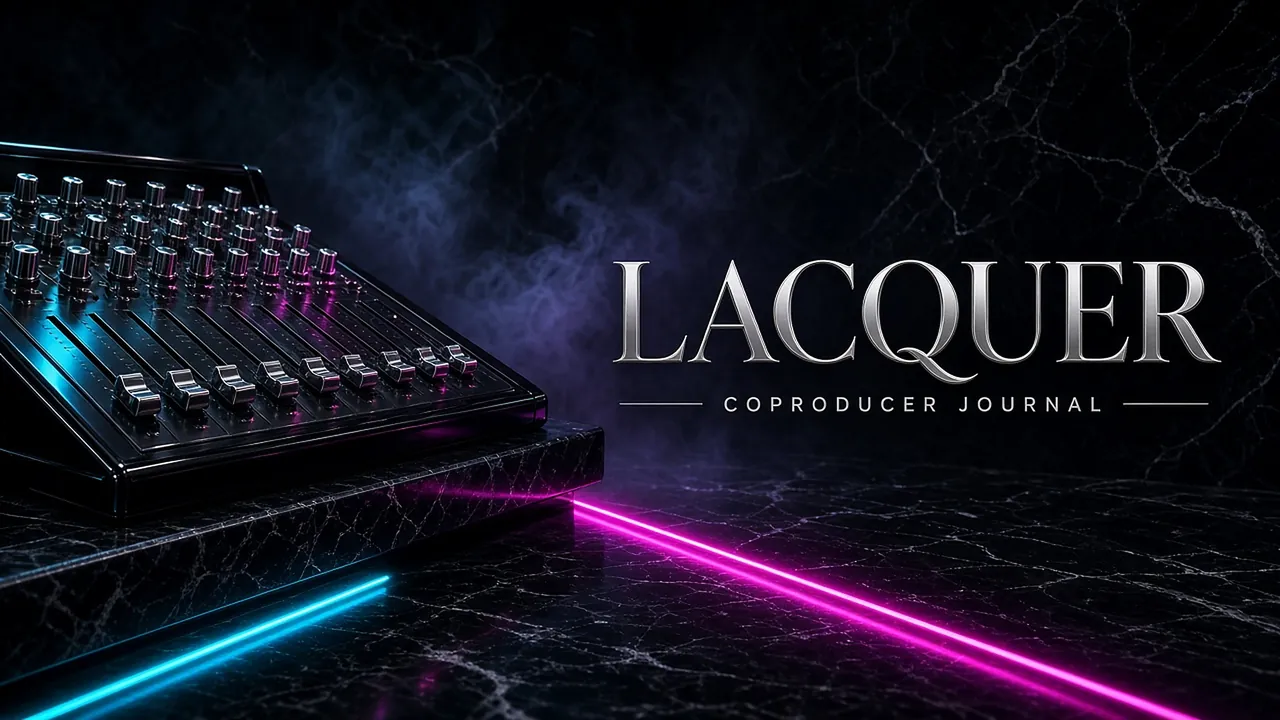
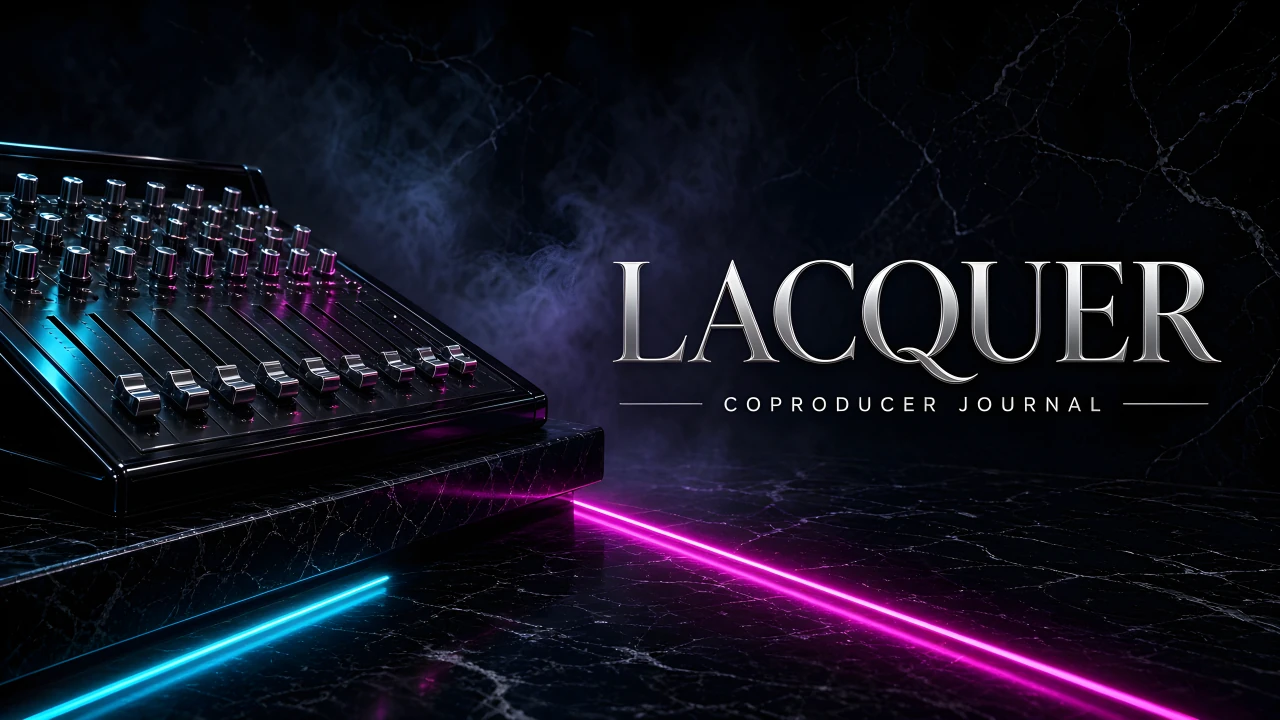
Journal hero: replace upscaled-blur Lacquer hero with Real-ESRGAN 2560/1920/1280 (WebP q90, JPG q90), add 1920w to srcset/preload, cache-bust

diff --git a/blog/index.html b/blog/index.html
@@ -24,7 +24,7 @@
 <link href="https://fonts.googleapis.com/css2?family=Cormorant+Garamond:ital,wght@0,500;0,600;1,500;1,600&amp;family=Figtree:wght@400;500;600&amp;family=JetBrains+Mono:wght@400;500;700&amp;display=swap" rel="stylesheet" media="print" onload="this.media='all'"/><noscript><link href="https://fonts.googleapis.com/css2?family=Cormorant+Garamond:ital,wght@0,500;0,600;1,500;1,600&amp;family=Figtree:wght@400;500;600&amp;family=JetBrains+Mono:wght@400;500;700&amp;display=swap" rel="stylesheet"/></noscript>
 <link href="css/journal.css" rel="stylesheet"/>
 <link href="css/lacquer-brand.css?v=lq1" rel="stylesheet"/>
-<link as="image" fetchpriority="high" href="img/brand/lacquer-hero.webp" imagesizes="100vw" imagesrcset="img/brand/lacquer-hero-1280.webp 1280w, img/brand/lacquer-hero.webp 2560w" rel="preload" type="image/webp"/>
+<link as="image" fetchpriority="high" href="img/brand/lacquer-hero-1920.webp?v=lq2" imagesizes="100vw" imagesrcset="img/brand/lacquer-hero-1280.webp?v=lq2 1280w, img/brand/lacquer-hero-1920.webp?v=lq2 1920w, img/brand/lacquer-hero.webp?v=lq2 2560w" rel="preload" type="image/webp"/>
 
 <script type="application/ld+json">{"@context":"https://schema.org","@type":"BreadcrumbList","itemListElement":[{"@type":"ListItem","position":1,"name":"CoProducer","item":"https://myaiplug.github.io/coproducer-web/"},{"@type":"ListItem","position":2,"name":"Lacquer Journal","item":"https://myaiplug.github.io/coproducer-web/blog/index.html"}]}</script><script type="application/ld+json">{"@context":"https://schema.org","@type":"CollectionPage","name":"Lacquer — CoProducer Journal","url":"https://myaiplug.github.io/coproducer-web/blog/index.html","isPartOf":{"@id":"https://myaiplug.github.io/coproducer-web/#website"},"about":"Audio engineering essays on loudness, true peak, repair, stems, and local tools.","publisher":{"@id":"https://myaiplug.github.io/coproducer-web/#organization"},"mainEntity":{"@type":"ItemList","itemListElement":[{"@type":"ListItem","position":1,"url":"https://myaiplug.github.io/coproducer-web/blog/hum-in-your-recording-notch-60-hz-and-its-harmonics.html","name":"Hum in your recording? Notch 60 Hz and its harmonics, not just the low end"},{"@type":"ListItem","position":2,"url":"https://myaiplug.github.io/coproducer-web/blog/noise-gate-cuts-off-vocal-tails-set-the-hold.html","name":"Noise gate cutting off the ends of words? Set the hold and a lower close"},{"@type":"ListItem","position":3,"url":"https://myaiplug.github.io/coproducer-web/blog/saturator-sounds-harsh-turn-on-oversampling.html","name":"Saturator making the highs harsh? Turn on oversampling"},{"@type":"ListItem","position":4,"url":"https://myaiplug.github.io/coproducer-web/blog/linear-phase-eq-smears-the-kick-watch-the-pre-ring.html","name":"Linear-phase EQ softening your kick? Listen before the hit"},{"@type":"ListItem","position":5,"url":"https://myaiplug.github.io/coproducer-web/blog/limiter-distorts-the-bass-slow-the-release.html","name":"Limiter distorting the bass? Slow the release"},{"@type":"ListItem","position":6,"url":"https://myaiplug.github.io/coproducer-web/blog/mix-leans-to-one-side-check-the-balance-band-by-band.html","name":"Mix leans to one side? Check the balance band by band"},{"@type":"ListItem","position":7,"url":"https://myaiplug.github.io/coproducer-web/blog/copy-paste-vocal-double-sounds-mono-sing-a-real-take.html","name":"Copy-pasted vocal double sounds mono? Sing a real second take"},{"@type":"ListItem","position":8,"url":"https://myaiplug.github.io/coproducer-web/blog/vocal-buried-in-the-beat-cut-the-beat-at-3-khz.html","name":"Vocal buried in the beat? Cut the beat where the voice lives"},{"@type":"ListItem","position":9,"url":"https://myaiplug.github.io/coproducer-web/blog/sidechain-pumping-out-of-time-set-release-to-tempo.html","name":"Sidechain pumping out of time? Set the release from the tempo"},{"@type":"ListItem","position":10,"url":"https://myaiplug.github.io/coproducer-web/blog/fade-out-sounds-abrupt-curve-it-and-fade-after-the-limiter.html","name":"Fade-out drops off a cliff? Curve it, and fade after the limiter"},{"@type":"ListItem","position":11,"url":"https://myaiplug.github.io/coproducer-web/blog/plugin-input-level-gain-staging-minus-18-dbfs.html","name":"Why −18 dBFS? Gain staging into analog-style plugins"},{"@type":"ListItem","position":12,"url":"https://myaiplug.github.io/coproducer-web/blog/layered-kick-sounds-thinner-check-polarity-and-timing.html","name":"Layered kick sounds thinner? Check polarity and timing"},{"@type":"ListItem","position":13,"url":"https://myaiplug.github.io/coproducer-web/blog/normalize-on-export-turn-it-off-for-mastering.html","name":"Should you normalize on export? Turn it off before mastering"},{"@type":"ListItem","position":14,"url":"https://myaiplug.github.io/coproducer-web/blog/sample-plays-at-wrong-pitch-sample-rate-mismatch.html","name":"Sample playing at the wrong speed or pitch? It’s a sample-rate mismatch"},{"@type":"ListItem","position":15,"url":"https://myaiplug.github.io/coproducer-web/blog/song-ending-cut-off-on-export-let-the-tail-ring.html","name":"Song ending cut off when you export? Let the tail ring past the last bar"},{"@type":"ListItem","position":16,"url":"https://myaiplug.github.io/coproducer-web/blog/compressor-kills-the-punch-slow-the-attack.html","name":"Compressor killing your drums’ punch? Slow the attack down"},{"@type":"ListItem","position":17,"url":"https://myaiplug.github.io/coproducer-web/blog/tune-808-to-the-key-of-your-song.html","name":"808 sounds off-key? Find its real note, then tune it to the song"},{"@type":"ListItem","position":18,"url":"https://myaiplug.github.io/coproducer-web/blog/clean-version-of-a-song-mute-reverse-or-replace.html","name":"Making a clean version? Edit the vocals, keep the length, then check it against the explicit"},{"@type":"ListItem","position":19,"url":"https://myaiplug.github.io/coproducer-web/blog/pan-law-why-panned-parts-change-level.html","name":"Panned parts get quieter in mono? That’s your pan law, not your ears"},{"@type":"ListItem","position":20,"url":"https://myaiplug.github.io/coproducer-web/blog/vocal-breaths-turn-them-down-dont-cut-them.html","name":"Loud breaths in your vocal? Turn them down before the compressor, don’t cut them"},{"@type":"ListItem","position":21,"url":"https://myaiplug.github.io/coproducer-web/blog/delay-time-from-bpm-sync-your-throws.html","name":"Your delay sounds off the beat? Set it from the tempo, not by ear"},{"@type":"ListItem","position":22,"url":"https://myaiplug.github.io/coproducer-web/blog/clicks-at-edit-points-fade-every-cut.html","name":"Clicks at your edit points come from cutting mid-wave. Fade every cut"},{"@type":"ListItem","position":23,"url":"https://myaiplug.github.io/coproducer-web/blog/export-stems-for-a-mix-engineer.html","name":"Sending stems to a mixer? Export them so they line up and add back up"},{"@type":"ListItem","position":24,"url":"https://myaiplug.github.io/coproducer-web/blog/mix-sounds-better-louder-pick-one-monitor-level.html","name":"Your mix sounds better loud and thinner quiet. Pick one monitoring level"},{"@type":"ListItem","position":25,"url":"https://myaiplug.github.io/coproducer-web/blog/reverb-makes-the-mix-muddy-filter-the-return.html","name":"Reverb making the mix muddy? Filter the return, not the vocal"},{"@type":"ListItem","position":26,"url":"https://myaiplug.github.io/coproducer-web/blog/low-end-changes-when-you-move-your-chair.html","name":"Your low end changes when you move your chair. That’s the room, not the mix"},{"@type":"ListItem","position":27,"url":"https://myaiplug.github.io/coproducer-web/blog/parallel-compression-sounds-thin-check-latency.html","name":"Parallel compression sounds thin? Check the latency first"},{"@type":"ListItem","position":28,"url":"https://myaiplug.github.io/coproducer-web/blog/gapless-album-gaps-after-mp3-or-aac.html","name":"Why your gapless album gets gaps after MP3 or AAC"},{"@type":"ListItem","position":29,"url":"https://myaiplug.github.io/coproducer-web/blog/808-disappears-on-phone-speakers.html","name":"Why your 808 disappears on phone speakers"},{"@type":"ListItem","position":30,"url":"https://myaiplug.github.io/coproducer-web/blog/how-much-headroom-to-leave-for-mastering.html","name":"How much headroom to leave for mastering (and why −6 dB isn’t the point)"},{"@type":"ListItem","position":31,"url":"https://myaiplug.github.io/coproducer-web/blog/integrated-lufs-hides-the-chorus.html","name":"Integrated LUFS hides how loud the chorus actually is"},{"@type":"ListItem","position":32,"url":"https://myaiplug.github.io/coproducer-web/blog/dont-match-a-streamed-reference.html","name":"Don’t match a streamed reference"},{"@type":"ListItem","position":33,"url":"https://myaiplug.github.io/coproducer-web/blog/short-term-lufs-is-not-your-target.html","name":"Short-term LUFS is not your target"},{"@type":"ListItem","position":34,"url":"https://myaiplug.github.io/coproducer-web/blog/turn-the-mix-down-before-you-limit.html","name":"Turn the mix down before you limit"},{"@type":"ListItem","position":35,"url":"https://myaiplug.github.io/coproducer-web/blog/what-432-hz-actually-changes-in-a-master.html","name":"What 432 Hz actually changes in a finished master"},{"@type":"ListItem","position":36,"url":"https://myaiplug.github.io/coproducer-web/blog/resampling-vs-pitch-shift-vs-tempo.html","name":"Resampling, pitch shifting, and tempo change are three different jobs"},{"@type":"ListItem","position":37,"url":"https://myaiplug.github.io/coproducer-web/blog/concert-pitch-history-before-a440.html","name":"Concert pitch before A=440: a history that never stood still"},{"@type":"ListItem","position":38,"url":"https://myaiplug.github.io/coproducer-web/blog/432-hz-conspiracy-theories-fact-check.html","name":"The 432 Hz conspiracy theories, checked against the record"},{"@type":"ListItem","position":39,"url":"https://myaiplug.github.io/coproducer-web/blog/432-vs-440-blind-listening-test.html","name":"How to run a 432 vs 440 listening test you can trust"},{"@type":"ListItem","position":40,"url":"https://myaiplug.github.io/coproducer-web/blog/songs-that-reveal-a-432-hz-retune.html","name":"Which songs reveal a 432 Hz retune, and which hide it"},{"@type":"ListItem","position":41,"url":"https://myaiplug.github.io/coproducer-web/blog/lufs-and-true-peak-after-432-retune.html","name":"432 Hz mastering: LUFS and true peak after a retune"},{"@type":"ListItem","position":42,"url":"https://myaiplug.github.io/coproducer-web/blog/how-to-make-a-432-hz-alternate-master.html","name":"A 432 alternate master should never cost you the original"},{"@type":"ListItem","position":43,"url":"https://myaiplug.github.io/coproducer-web/blog/batch-retune-a-folder-to-432-hz-safely.html","name":"Batch retune a folder to 432 Hz without damaging a master"},{"@type":"ListItem","position":44,"url":"https://myaiplug.github.io/coproducer-web/blog/432-vs-435-vs-442-hz-reference-pitch-guide.html","name":"432, 435, 442 and the reference pitch you actually started from"},{"@type":"ListItem","position":45,"url":"https://myaiplug.github.io/coproducer-web/blog/local-audio-processing-for-unreleased-masters.html","name":"Keeping an unreleased master on your own machine, honestly"},{"@type":"ListItem","position":46,"url":"https://myaiplug.github.io/coproducer-web/blog/432-hz-release-checklist.html","name":"Before a 432 version ships: the release checklist"},{"@type":"ListItem","position":47,"url":"https://myaiplug.github.io/coproducer-web/blog/split-stems-from-youtube-audio-you-own.html","name":"Splitting stems from YouTube audio you own starts with the cleanest copy"},{"@type":"ListItem","position":48,"url":"https://myaiplug.github.io/coproducer-web/blog/demucs-vs-mdx-net-stem-separation-compared.html","name":"Demucs vs MDX-Net: what each separator gets wrong, and why"},{"@type":"ListItem","position":49,"url":"https://myaiplug.github.io/coproducer-web/blog/cloud-stem-splitter-privacy-unreleased-music.html","name":"Before a cloud stem splitter gets your unreleased song, read four clauses"},{"@type":"ListItem","position":50,"url":"https://myaiplug.github.io/coproducer-web/blog/sampling-from-separated-stems-workflow.html","name":"Sampling from separated stems: chop around the bleed, not through it"},{"@type":"ListItem","position":51,"url":"https://myaiplug.github.io/coproducer-web/blog/subsonic-rumble-steals-limiter-headroom.html","name":"Rumble you can’t hear is eating your limiter"},{"@type":"ListItem","position":52,"url":"https://myaiplug.github.io/coproducer-web/blog/bus-compressor-pumps-on-the-808.html","name":"Your bus compressor is pumping on the 808. High-pass the sidechain"},{"@type":"ListItem","position":53,"url":"https://myaiplug.github.io/coproducer-web/blog/halftime-still-needs-a-legal-peak.html","name":"Halftime still needs a legal peak"},{"@type":"ListItem","position":54,"url":"https://myaiplug.github.io/coproducer-web/blog/when-to-slow-the-bounce.html","name":"When to slow the bounce"},{"@type":"ListItem","position":55,"url":"https://myaiplug.github.io/coproducer-web/blog/wide-mixes-fail-in-mono.html","name":"Wide mixes fail in mono. Check mid/side before you bounce"},{"@type":"ListItem","position":56,"url":"https://myaiplug.github.io/coproducer-web/blog/clipper-vs-limiter-hip-hop-delivery.html","name":"Clipper vs limiter for hip-hop delivery — loudness isn’t the only score"},{"@type":"ListItem","position":57,"url":"https://myaiplug.github.io/coproducer-web/blog/leading-silence-steals-integrated-lufs.html","name":"The silence at the top of your bounce steals LUFS"},{"@type":"ListItem","position":58,"url":"https://myaiplug.github.io/coproducer-web/blog/kick-and-808-same-chair.html","name":"Your kick and 808 are arguing in the same chair"},{"@type":"ListItem","position":59,"url":"https://myaiplug.github.io/coproducer-web/blog/how-loud-should-the-vocal-sit.html","name":"How loud should the vocal sit? Measure it against the beat"},{"@type":"ListItem","position":60,"url":"https://myaiplug.github.io/coproducer-web/blog/harsh-esses-get-louder-after-mastering.html","name":"Harsh S’s get louder after mastering. De-ess before the limiter"},{"@type":"ListItem","position":61,"url":"https://myaiplug.github.io/coproducer-web/blog/why-streaming-turns-loud-masters-down.html","name":"Why streaming platforms turn loud masters down"},{"@type":"ListItem","position":62,"url":"https://myaiplug.github.io/coproducer-web/blog/true-peak-is-what-codecs-clip.html","name":"True peak is what codecs clip"},{"@type":"ListItem","position":63,"url":"https://myaiplug.github.io/coproducer-web/blog/what-a-70-to-90-repair-changes.html","name":"What a 70-to-90 repair actually changes"},{"@type":"ListItem","position":64,"url":"https://myaiplug.github.io/coproducer-web/blog/should-you-upload-an-unreleased-master.html","name":"Should you upload an unreleased master?"},{"@type":"ListItem","position":65,"url":"https://myaiplug.github.io/coproducer-web/blog/release-checklist-that-matches-the-meter.html","name":"A release checklist that matches the meter"},{"@type":"ListItem","position":66,"url":"https://myaiplug.github.io/coproducer-web/blog/crest-factor-is-not-loudness.html","name":"Crest factor is not loudness"},{"@type":"ListItem","position":67,"url":"https://myaiplug.github.io/coproducer-web/blog/phase-correlation-and-mono.html","name":"Phase correlation is a mono audition"},{"@type":"ListItem","position":68,"url":"https://myaiplug.github.io/coproducer-web/blog/quiet-masters-and-noise-floor.html","name":"Quiet masters get turned up — and so does the noise"},{"@type":"ListItem","position":69,"url":"https://myaiplug.github.io/coproducer-web/blog/when-not-to-reach-for-the-limiter.html","name":"When not to reach for the limiter"},{"@type":"ListItem","position":70,"url":"https://myaiplug.github.io/coproducer-web/blog/sample-rate-and-bit-depth-for-delivery.html","name":"Sample rate and bit depth are delivery hygiene"},{"@type":"ListItem","position":71,"url":"https://myaiplug.github.io/coproducer-web/blog/reference-matching-without-guesswork.html","name":"How to use a reference track when mixing: match the loudness first, then compare"},{"@type":"ListItem","position":72,"url":"https://myaiplug.github.io/coproducer-web/blog/album-consistency-in-one-meter.html","name":"How loud should each song on an album be? Measure the record as a set"},{"@type":"ListItem","position":73,"url":"https://myaiplug.github.io/coproducer-web/blog/why-three-report-formats.html","name":"What should a loudness report include? HTML, JSON, TXT"},{"@type":"ListItem","position":74,"url":"https://myaiplug.github.io/coproducer-web/blog/local-tools-beat-upload-queues.html","name":"How to check LUFS without uploading your song"},{"@type":"ListItem","position":75,"url":"https://myaiplug.github.io/coproducer-web/blog/stems-diagnose-mixes-do-not-replace-them.html","name":"Can stem separation fix a bad mix? Stems diagnose mixes, they don’t replace them"},{"@type":"ListItem","position":76,"url":"https://myaiplug.github.io/coproducer-web/blog/screw-tempo-still-needs-a-legal-peak.html","name":"Does a slowed or screwed version need its own master? Measure the peak again"},{"@type":"ListItem","position":77,"url":"https://myaiplug.github.io/coproducer-web/blog/vertical-video-is-a-loudness-trap.html","name":"What LUFS for Reels, TikTok and Shorts?"},{"@type":"ListItem","position":78,"url":"https://myaiplug.github.io/coproducer-web/blog/mastering-bat-vs-opening-the-session.html","name":"Can mastering fix a bad mix? When a mastering pass is enough and when to reopen the session"},{"@type":"ListItem","position":79,"url":"https://myaiplug.github.io/coproducer-web/blog/how-to-read-a-coproducer-score.html","name":"What does a mix score mean? How to read a CoProducer score"},{"@type":"ListItem","position":80,"url":"https://myaiplug.github.io/coproducer-web/blog/reencoding-eats-true-peak-headroom.html","name":"Why does my master clip after MP3 or AAC?"}]},"@id":"https://myaiplug.github.io/coproducer-web/blog/index.html#collection"}</script><script type="application/ld+json">{"@context":"https://schema.org","@graph":[{"@type":"Organization","@id":"https://myaiplug.github.io/coproducer-web/#organization","name":"NoDAW Labs","alternateName":"NoDAW™ Labs","url":"https://nodawlabs.com/","logo":{"@type":"ImageObject","url":"https://myaiplug.github.io/coproducer-web/assets/icon-512.png","width":512,"height":512},"sameAs":["https://nodawlabs.com/","https://x.com/NoDAW_Studio","https://github.com/myaiplug","https://myaiplug.github.io/coproducer-web/"],"contactPoint":{"@type":"ContactPoint","email":"NoDAW@nodawlabs.com","contactType":"customer support"}},{"@type":"WebSite","@id":"https://myaiplug.github.io/coproducer-web/#website","url":"https://myaiplug.github.io/coproducer-web/","name":"CoProducer","alternateName":"CoProducer by NoDAW Labs","description":"CoProducer is local-first audio analysis for LUFS, true peak, clips, phase, reference matching, and conservative repair. Lacquer is its journal.","publisher":{"@id":"https://myaiplug.github.io/coproducer-web/#organization"},"inLanguage":"en-US"}]}</script>
 </head>
@@ -44,8 +44,8 @@
 <main id="main">
 <section aria-label="Lacquer — CoProducer Journal" class="lq-hero" id="top">
 <picture>
-<source sizes="100vw" srcset="img/brand/lacquer-hero-1280.webp 1280w, img/brand/lacquer-hero.webp 2560w" type="image/webp"/>
-<img alt="Lacquer — CoProducer Journal: a silver LACQUER wordmark beside a black mixing console on black marble, lit by cyan and magenta neon" decoding="async" fetchpriority="high" height="1440" sizes="100vw" src="img/brand/lacquer-hero.jpg" srcset="img/brand/lacquer-hero-1280.jpg 1280w, img/brand/lacquer-hero.jpg 2560w" width="2560"/>
+<source sizes="100vw" srcset="img/brand/lacquer-hero-1280.webp?v=lq2 1280w, img/brand/lacquer-hero-1920.webp?v=lq2 1920w, img/brand/lacquer-hero.webp?v=lq2 2560w" type="image/webp"/>
+<img alt="Lacquer — CoProducer Journal: a silver LACQUER wordmark beside a black mixing console on black marble, lit by cyan and magenta neon" decoding="async" fetchpriority="high" height="1440" sizes="100vw" src="img/brand/lacquer-hero.jpg?v=lq2" srcset="img/brand/lacquer-hero-1280.jpg?v=lq2 1280w, img/brand/lacquer-hero-1920.jpg?v=lq2 1920w, img/brand/lacquer-hero.jpg?v=lq2 2560w" width="2560"/>
 </picture>
 </section>
 <section class="cover lq-intro">
